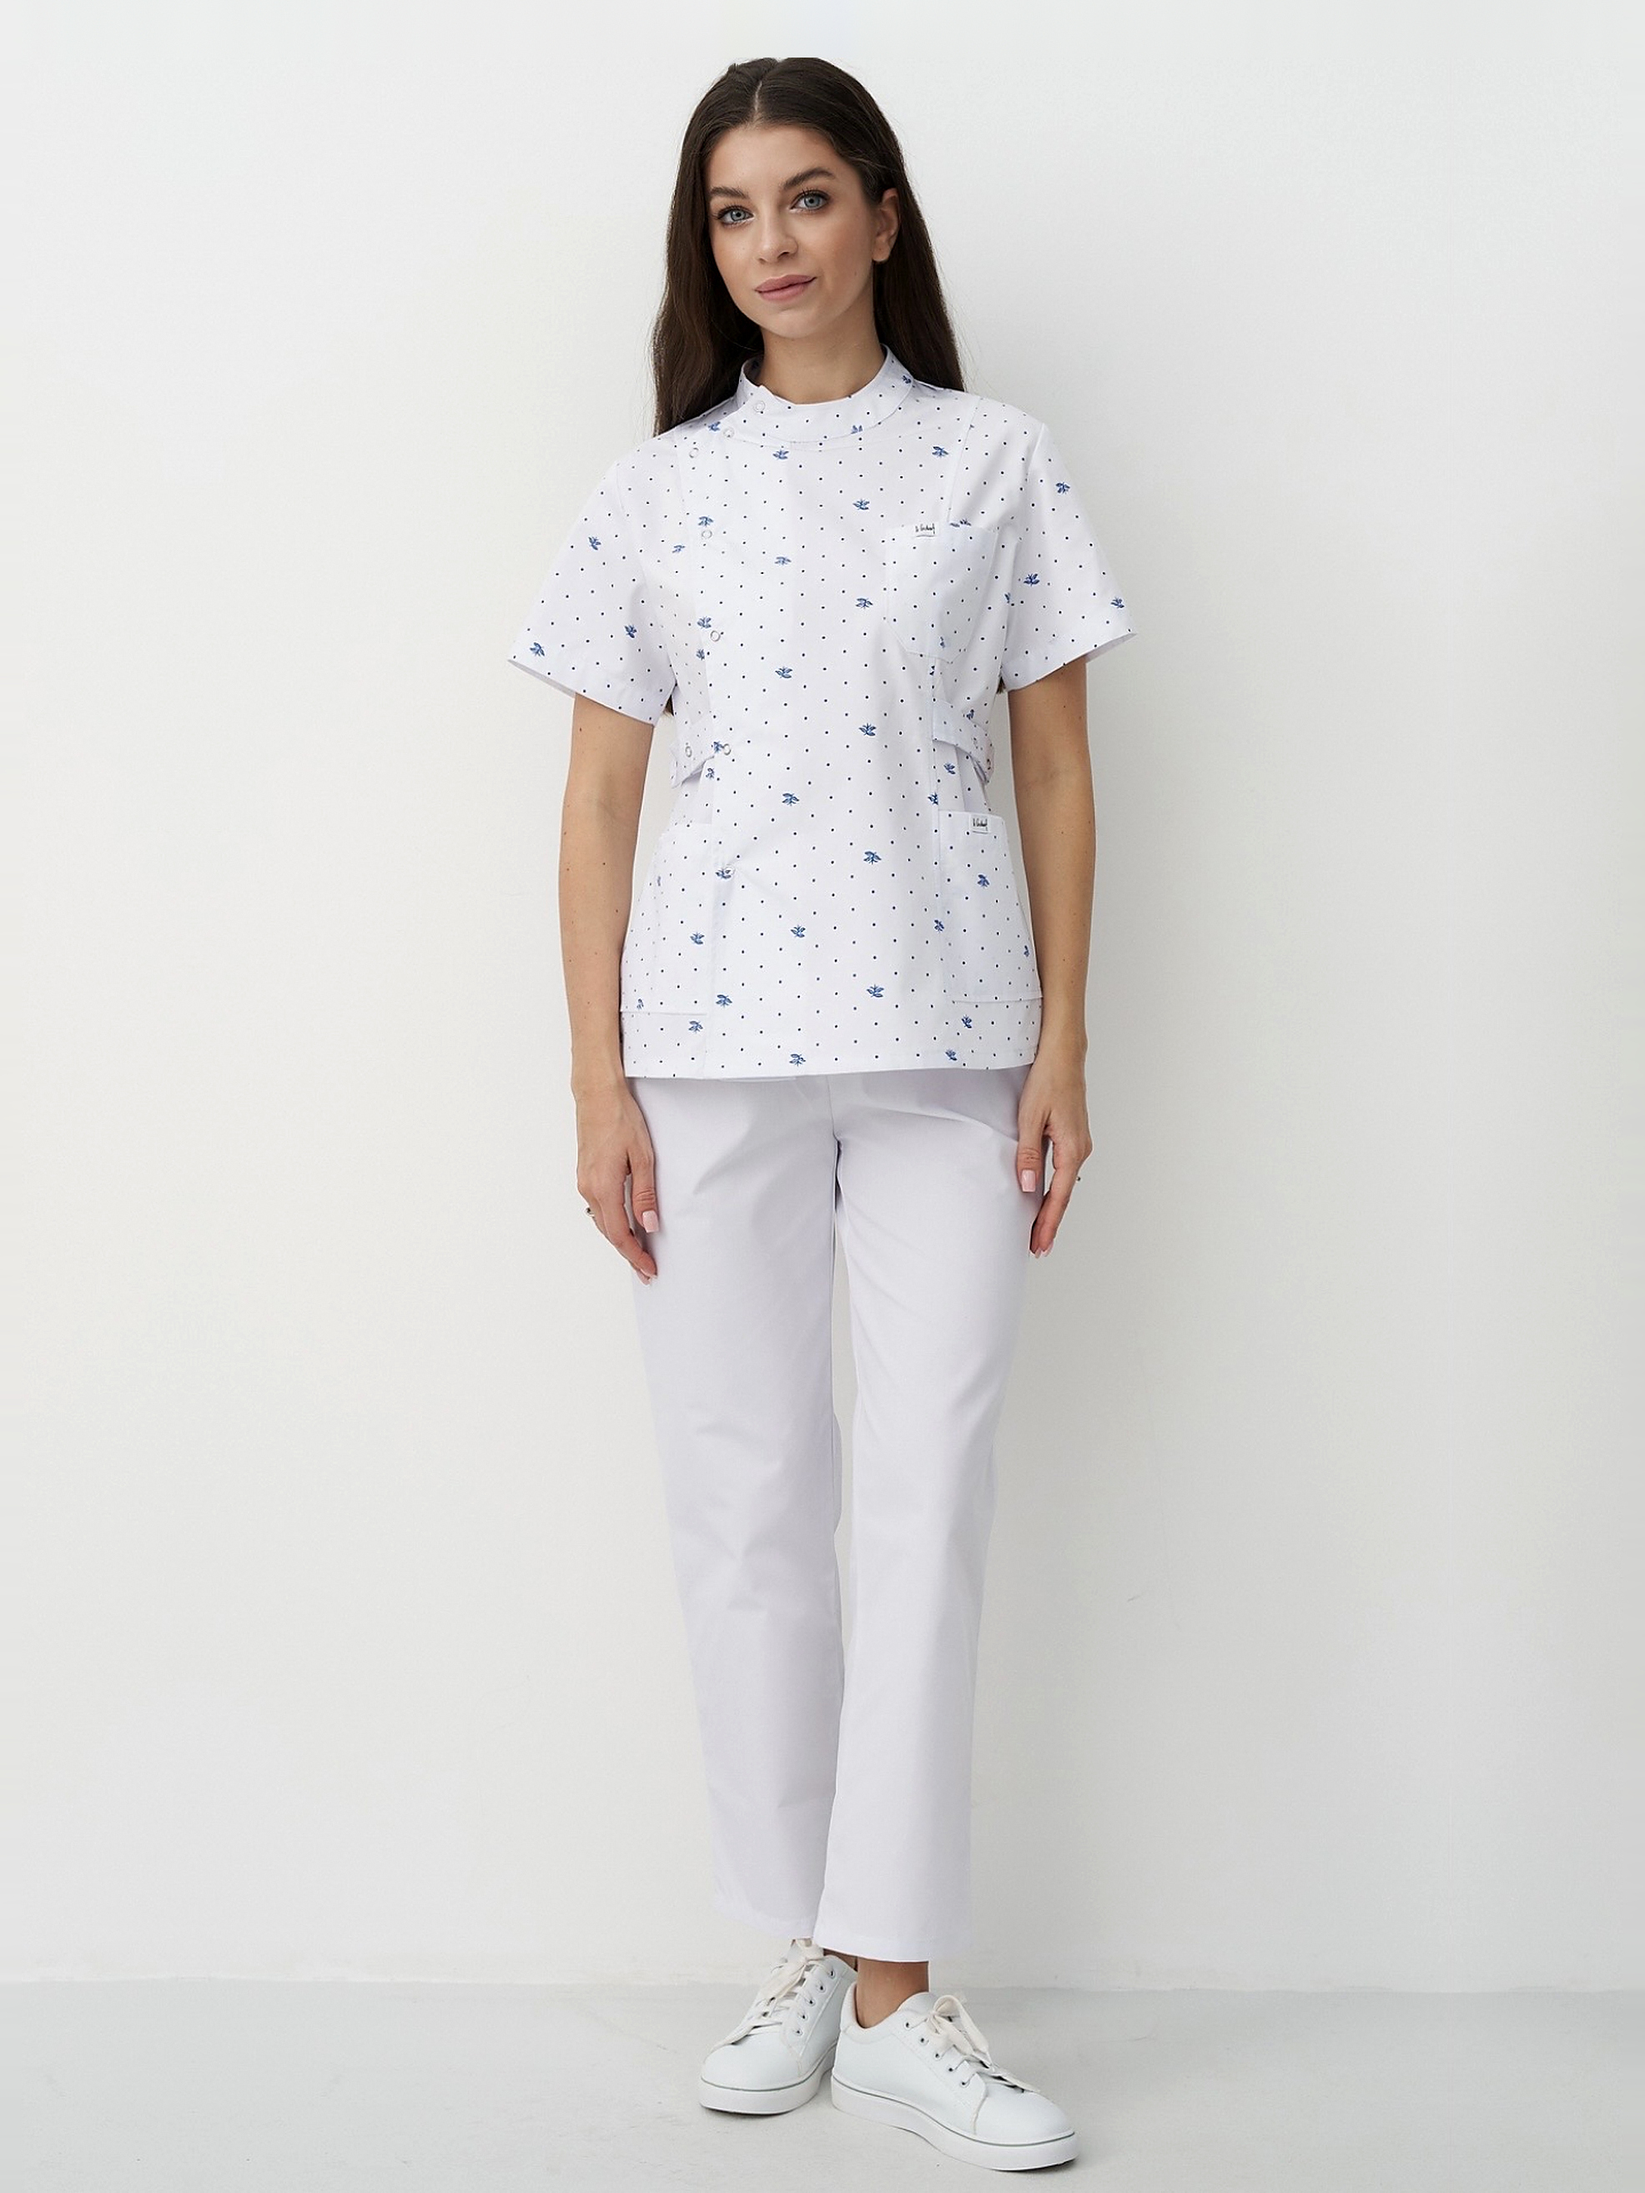
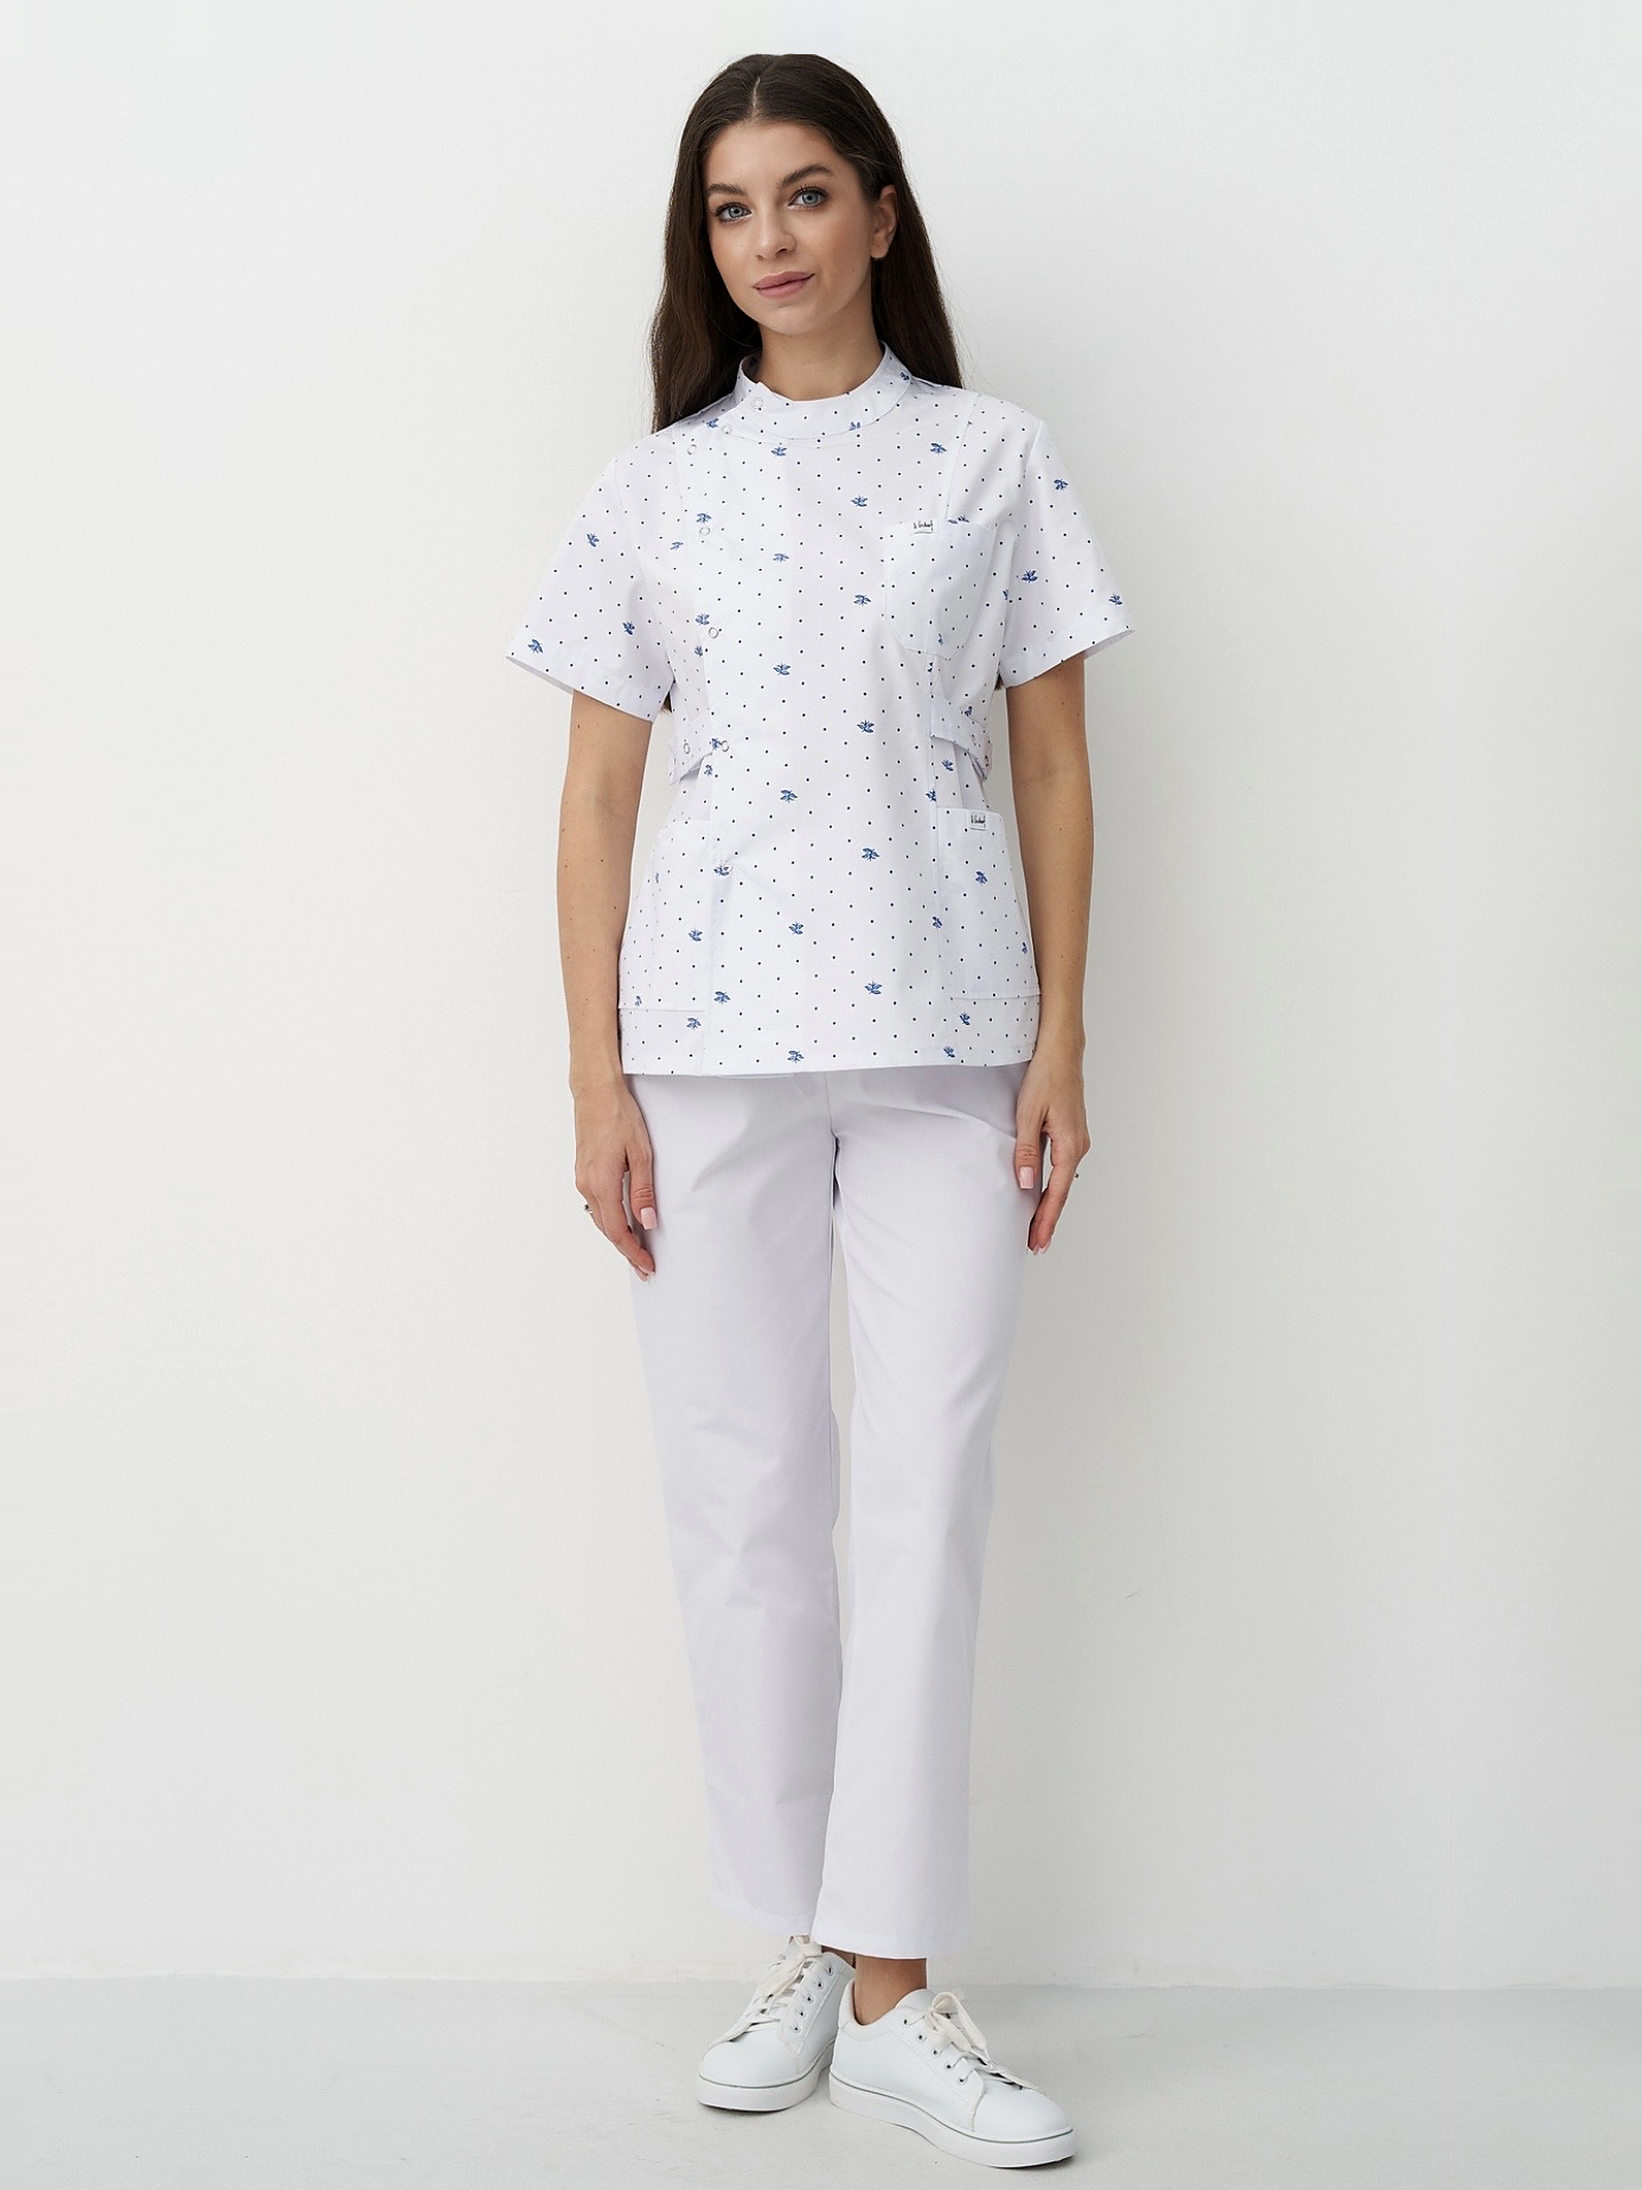
Fix the notch on photo 18's parting
The lift was reading its gap with the wrong sign: over the actual cut the
measured outline sits above the fitted one, so the gap went negative, clipped
to zero, and no lift happened there at all. What did get lifted was a handful
of scattered columns where the traced outline randomly overshot the curve by a
fraction — one of them by 7px, which is the notch on the left of the parting.

The gap is now smoothed across columns and only counted where it is real, the
reference outline is smoothed before it is used as the target contour (a ragged
contour combs the rebuilt edge into teeth), and the feather widened to 2.2px.

Also swapped the donor to photo 15: photo 14 fitted the shoulders best but
placed the apex below the frame edge, i.e. it claimed nothing was missing on a
frame that visibly cuts 57 columns of hair. Photo 15 is the front-on pose and
puts the apex 3-4px above the edge, which matches.

Claude-Session: https://claude.ai/code/session_01JHcE1fAS6ZLX1B7gE1H4Fj

diff --git a/scripts/transplant_crown.py b/scripts/transplant_crown.py
@@ -18,7 +18,7 @@ MATTE_K = 30.0          # contrast of the soft hair/background matte
 DOME = 170              # outline rows that still belong to the crown, not falling hair
 SCALE = (0.60, 1.85)    # head-size ratios the reference search covers
 BLEND = 16              # rows of real hair the hand-over ramp is allowed to touch
-FEATHER = 1.4           # px of softness on a lifted outline
+FEATHER = 2.2           # px of softness on a lifted outline
 LIFT_MAX = 10           # gap up to which the frame's own hair is stretched instead
 
 
@@ -71,7 +71,8 @@ def curve_from(yr, s, dx, dy, W):
     x9 = (np.arange(W) - dx) / s
     inb = (x9 >= ok.min()) & (x9 <= ok.max())
     c = s * np.interp(np.clip(x9, ok.min(), ok.max()), ok, yr[ok]) + dy
-    return np.where(inb, c, np.inf)
+    c = gauss1d(c, 6)          # the traced outline is ragged on wispy strands,
+    return np.where(inb, c, np.inf)   # and a ragged curve combs the rebuilt edge
 
 
 def lift_crown(B, N, yt, curve, cols, span=50):
@@ -115,10 +116,12 @@ def run(tgt_path, ref_path, dst, px=tm.DEFAULT_PX):
 
     curve = curve_from(yr, s, dx, dy, W)
     near = np.zeros(W, bool)
-    near[max(0, lo - 40):min(W, hi + 41)] = True
+    near[max(0, lo - 30):min(W, hi + 31)] = True
+    # how far short of the true outline the frame cut the hair, per column
     gap = np.where(near & np.isfinite(curve) & (yt >= 0), yt - curve, 0.0)
-    gap = np.clip(gap, 0, None)
-    lift = gap.max() <= LIFT_MAX
+    gap = gauss1d(np.clip(gap, 0, None), 8)      # the traced outline is noisy on
+    gap = np.where(gap > 0.5, gap, 0.0)          # wispy strands; a raw gap spikes
+    lift = 0 < gap.max() <= LIFT_MAX
 
     apex = (s * yr[yr >= 0].min() + dy)
     crown = int(np.ceil(max(gap.max(), -apex, 0.0))) + 6
